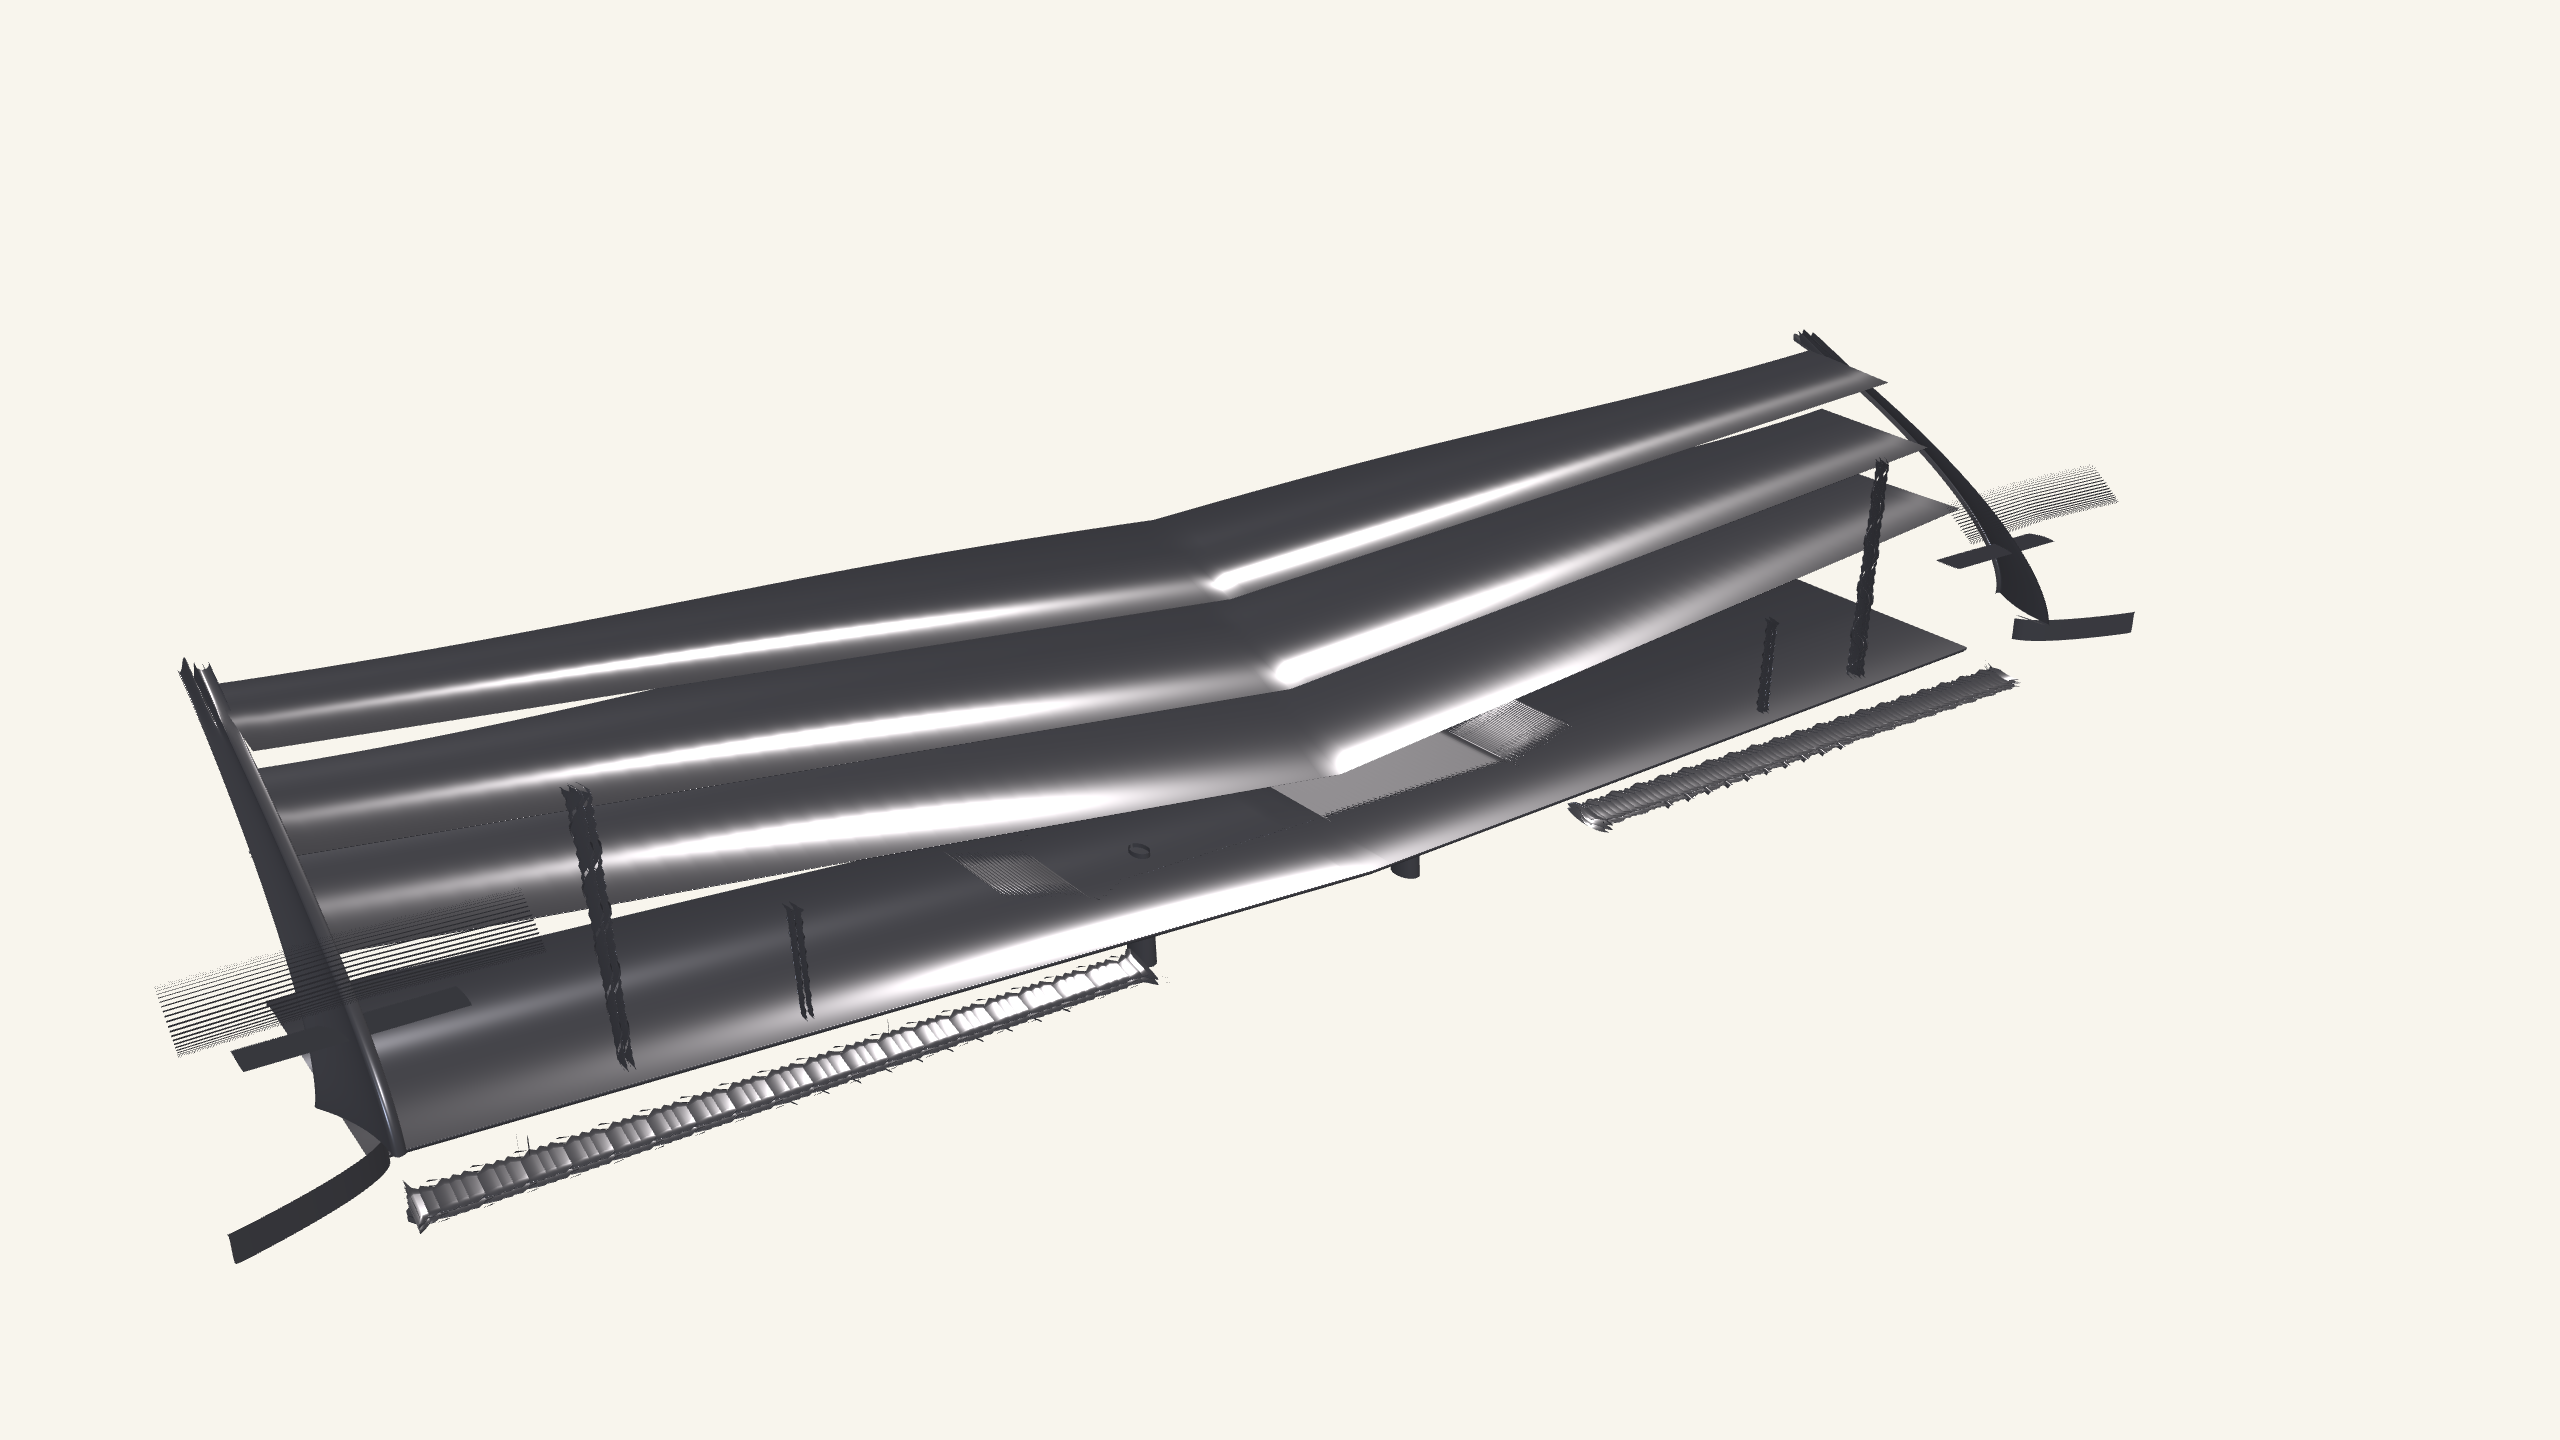
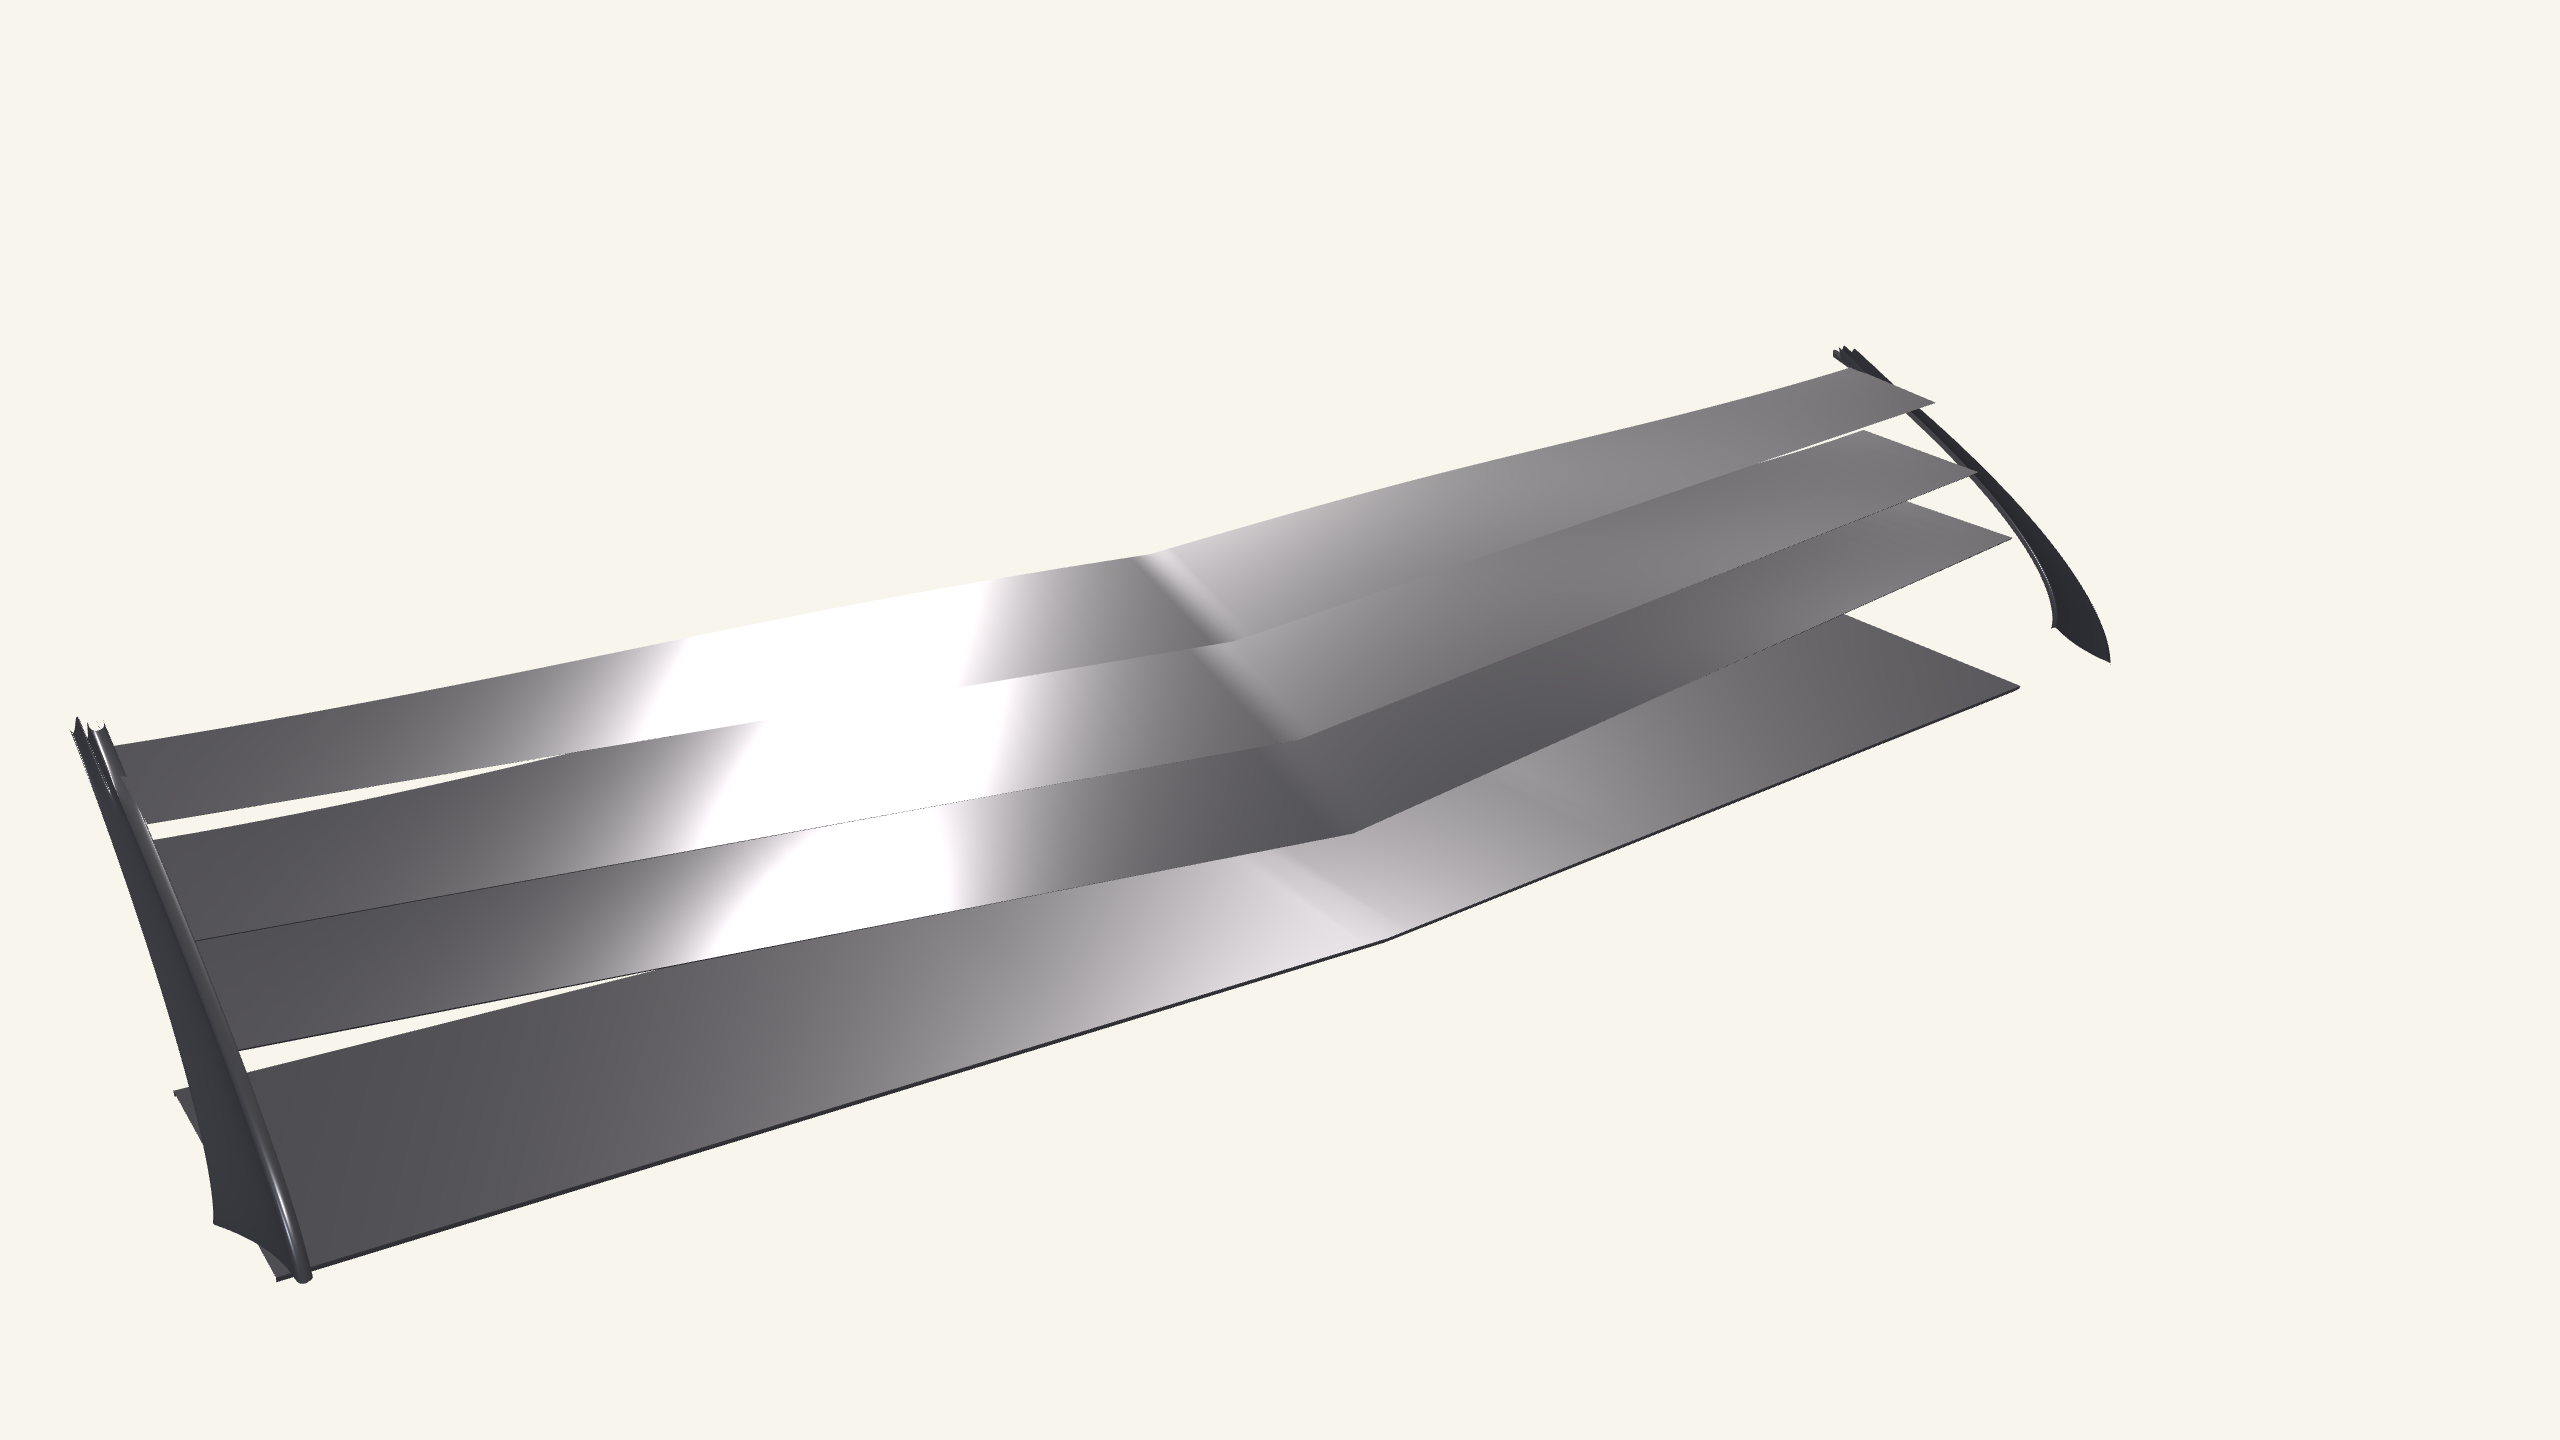
Add component filtering to the wing render script for cleaner hero shots
The generator emits ~320 tiny unstitched strake/VG/fence/pylon patches
that z-fight at most camera angles; --filter-small-components isolates
the 4 wing elements + 2 endplates by bounding-box extent.

Changed region(s): [[0.0312, 0.2188, 0.8438, 0.9062]]

diff --git a/src/experiments/render_wing_showcase.py b/src/experiments/render_wing_showcase.py
@@ -11,6 +11,16 @@ Usage:
     PYOPENGL_PLATFORM=egl python3 src/experiments/render_wing_showcase.py \\
         --stl path/to/design.stl --out paper/figures/my_render.png [accent|carbon]
 
+Hero renders of the GA best design (paper/figures/best_design_render_*.png)
+use --filter-small-components, which renders only the 4 wing elements and
+2 endplates and omits the ~320 tiny unstitched strake/VG/fence/pylon
+patches that z-fight into visible clutter at the footplate:
+
+    PYOPENGL_PLATFORM=egl python3 src/experiments/render_wing_showcase.py carbon \
+        --stl f1_wing_output/best_design_phase_two_ga_only.stl \
+        --filter-small-components --width 2560 --height 1440 \
+        --out paper/figures/best_design_render_carbon.png
+
 Output:
     paper/figures/wing_showcase.png (default) or --out path
 """
@@ -51,6 +61,32 @@ def generate_or_load_mesh(stl_path=None):
     return tm
 
 
+def filter_small_components(tm, min_extent_m):
+    """Keep only connected components whose largest bounding-box extent is
+    >= ``min_extent_m``. Used for hero renders only: the generator emits the
+    ~20 ancillary features (strakes, vortex generators, fences, pylons,
+    cascades) as hundreds of unstitched thin patches that z-fight at most
+    camera angles. The 4 wing elements and the 2 endplates are by far the
+    largest components, so an extent threshold isolates them cleanly."""
+    # Two criteria: largest extent >= min_extent_m AND second-largest extent
+    # >= min_extent_m / 3. The second test rejects ribbon-like parts (the
+    # 640 x 74 x 12 mm serrated footplate strips are *longer* than the
+    # 411 x 252 mm endplates, so a single length threshold cannot separate
+    # them, but their width cannot pass a plate-like test).
+    comps = tm.split(only_watertight=False)
+    keep = []
+    for c in comps:
+        ext = np.sort(c.extents)
+        if ext[-1] >= min_extent_m and ext[-2] >= min_extent_m / 3.0:
+            keep.append(c)
+    print(
+        f"component filter: kept {len(keep)}/{len(comps)} components "
+        f"(max extent >= {min_extent_m * 1000:.0f} mm, 2nd extent >= {min_extent_m * 1000 / 3:.0f} mm); "
+        f"kept extents (mm): {sorted(tuple(np.round(np.sort(c.extents)[::-1] * 1000).astype(int)) for c in keep)}"
+    )
+    return trimesh.util.concatenate(keep)
+
+
 def look_at(eye, target, up=(0.0, 0.0, 1.0)):
     """Camera pose matrix looking from eye to target."""
     eye = np.asarray(eye, float)
@@ -76,9 +112,22 @@ def main():
     parser.add_argument("--out", default=None, help="output PNG path")
     parser.add_argument("--width", type=int, default=1920)
     parser.add_argument("--height", type=int, default=1080)
+    parser.add_argument(
+        "--filter-small-components", nargs="?", const=300.0, default=None, type=float,
+        metavar="MIN_EXTENT_MM",
+        help="render only connected components whose largest bbox extent is >= this "
+             "(mm; default 300 when given without a value). Drops the tiny unstitched "
+             "strake/VG/fence/pylon patches that z-fight; keeps elements + endplates.",
+    )
+    parser.add_argument(
+        "--view", type=float, nargs=3, default=(-1.0, 0.72, 0.52), metavar=("X", "Y", "Z"),
+        help="camera direction from the bbox center (unnormalised); default front-quarter",
+    )
     args = parser.parse_args()
 
     tm = generate_or_load_mesh(args.stl)
+    if args.filter_small_components is not None:
+        tm = filter_small_components(tm, args.filter_small_components / 1000.0)
     bounds = tm.bounds  # meters
     center = tm.centroid
     span_y = bounds[1][1] - bounds[0][1]  # dominant dimension (~1.9-2.5 m)
@@ -117,7 +166,7 @@ def main():
     dist_h = half_h / np.tan(fov_y / 2)
     dist = max(dist_w, dist_h) + 0.25
 
-    view_dir = np.array([-1.0, 0.72, 0.52])  # front-quarter view from above
+    view_dir = np.array(args.view, dtype=float)  # default: front-quarter view from above
     view_dir /= np.linalg.norm(view_dir)
     target = (bounds[0] + bounds[1]) / 2  # frame on bbox center, not centroid
     eye = target + view_dir * dist
